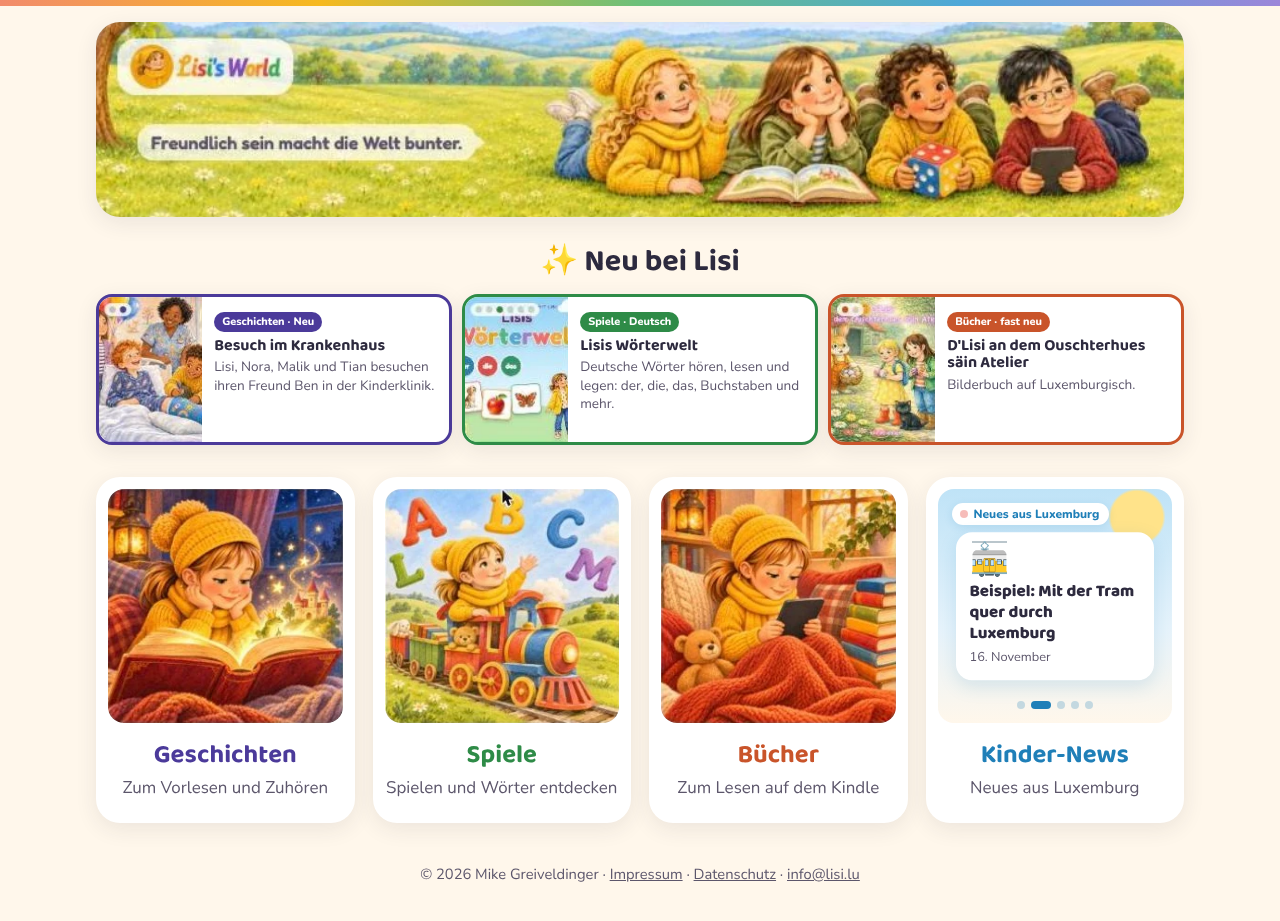
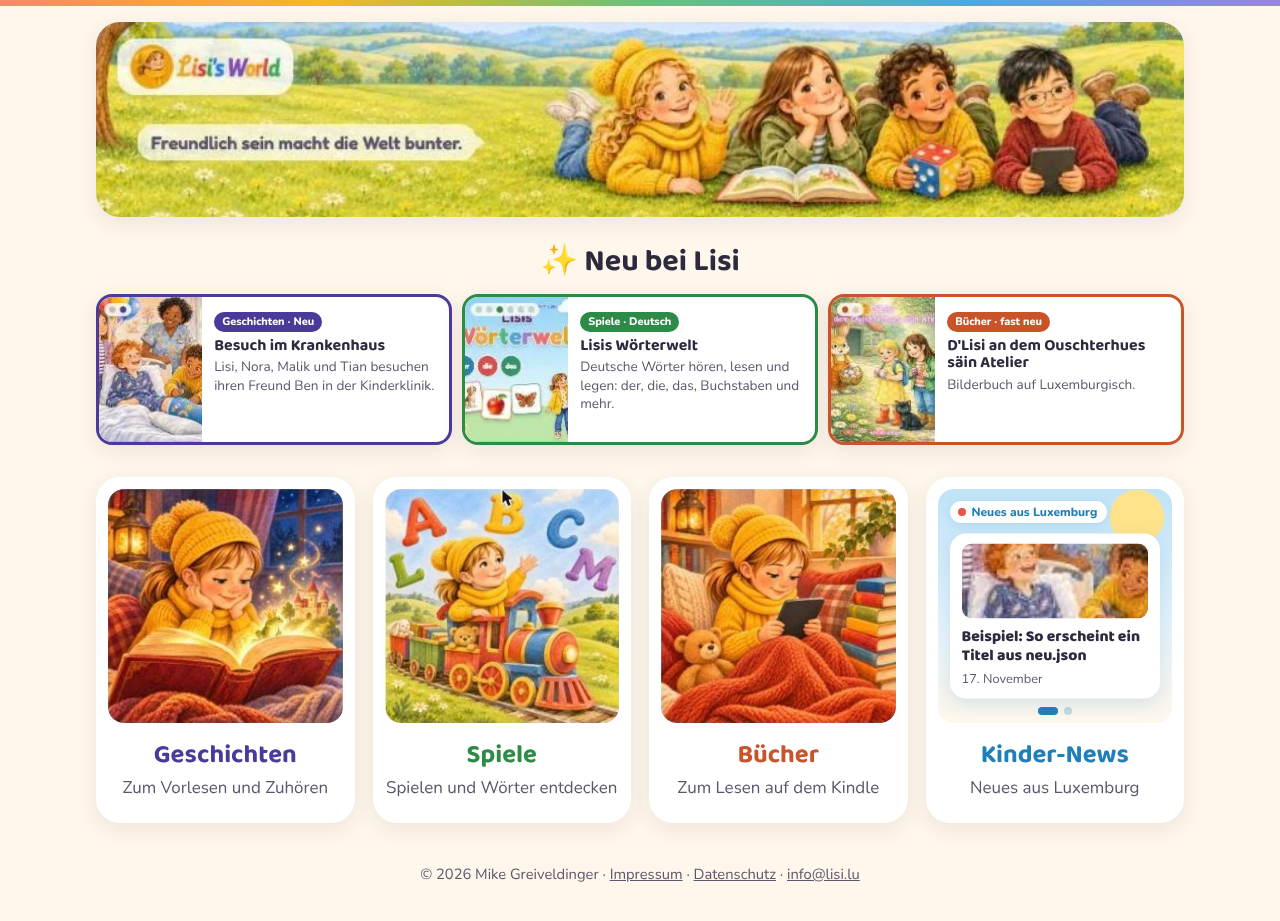
Kinder-News-Kachel liest stories.lisi.lu/neu.json
Zeigt die Einträge mit kategorie Kinder-News (Titel, Datum, Bild),
neueste zuerst, höchstens fünf. Die Kachel führt zu
stories.lisi.lu/nachrichten. Platzhalter-Meldungen entfernt; lädt
die Datei nicht, bleibt ein fester Hinweis stehen.

Claude-Session: https://claude.ai/code/session_01D9GWKEonHt6CfoCf5M1Z3G

Changed region(s): [[0.7188, 0.5472, 0.9062, 0.7904]]

diff --git a/startseite/entwurf/index.html b/startseite/entwurf/index.html
@@ -31,16 +31,20 @@
     <a class="kachel f-buecher" href="https://lisi.lu/buecher/"><img src="bilder/buecher.webp" alt="" width="253" height="253"><h2>Bücher</h2><p>Zum Lesen auf dem Kindle</p></a>
 
     <!-- ===== KINDER-NEWS (neu) =====
-         Die Meldungen kommen aus dem JSON-Block unten (oder aus data-quelle, einer JSON-Datei mit derselben Form).
-         Es werden die 5 neuesten gezeigt, alle 4 Sekunden die nächste; bei „Bewegung reduzieren“ steht nur die neueste. -->
-    <a class="kachel f-news" href="#kinder-news" id="news-kachel" data-quelle="">
+         Holt https://stories.lisi.lu/neu.json, nimmt die Einträge mit "kategorie": "Kinder-News"
+         (neueste zuerst, höchstens 5) und zeigt sie abwechselnd alle 4 Sekunden.
+         Bei „Bewegung reduzieren“ steht nur die neueste. Klappt das Laden nicht, bleibt ein fester Hinweis stehen.
+         Wichtig: stories.lisi.lu muss für lisi.lu den CORS-Header Access-Control-Allow-Origin senden. -->
+    <a class="kachel f-news" href="https://stories.lisi.lu/nachrichten" id="news-kachel" data-quelle="https://stories.lisi.lu/neu.json">
       <div class="newsfenster" aria-hidden="true">
         <span class="live">Neues aus Luxemburg</span>
-        <ul class="meldungen"></ul>
+        <ul class="meldungen">
+          <li class="meldung aktiv ersatz"><span class="emoji">📰</span><strong>Die neuesten Kinder-News aus Luxemburg</strong><small>Hier tippen zum Lesen</small></li>
+        </ul>
         <div class="punkte"></div>
       </div>
       <h2>Kinder-News</h2>
-      <p id="news-zeile">Was gibt's Neues auf der Welt?</p>
+      <p>Neues aus Luxemburg</p>
     </a>
   </nav>
 </div>
@@ -49,37 +53,38 @@
   © 2026 Mike Greiveldinger · <a href="https://lisi.lu/impressum/">Impressum</a> · <a href="https://lisi.lu/datenschutz/">Datenschutz</a> · <a href="mailto:info@lisi.lu">info@lisi.lu</a>
 </footer>
 
-<!-- Beispiel-Meldungen (Platzhalter), bis die Quelle von „Neues aus Luxemburg“ feststeht -->
-<script type="application/json" id="news-daten">
-[
-  {"datum":"2026-11-17","emoji":"🎄","titel":"Beispiel: Der erste Weihnachtsmarkt in der Stadt öffnet"},
-  {"datum":"2026-11-16","emoji":"🚋","titel":"Beispiel: Mit der Tram quer durch Luxemburg"},
-  {"datum":"2026-11-15","emoji":"🏰","titel":"Beispiel: Kinder entdecken die Burg von Vianden"},
-  {"datum":"2026-11-14","emoji":"❄","titel":"Beispiel: Im Ösling ist der erste Schnee gefallen"},
-  {"datum":"2026-11-13","emoji":"📚","titel":"Beispiel: Lesetag in den Grundschulen"}
-]
-</script>
 <script>
 (function(){
   var kachel=document.getElementById('news-kachel');
+  var quelle=kachel.getAttribute('data-quelle');
   var liste=kachel.querySelector('.meldungen'), punkte=kachel.querySelector('.punkte');
   var ruhig=window.matchMedia('(prefers-reduced-motion: reduce)').matches;
-  function datum(d){try{return new Date(d+'T12:00:00').toLocaleDateString('de-DE',{day:'numeric',month:'long'})}catch(e){return d}}
-  function zeigen(alle){
-    var news=alle.slice().sort(function(a,b){return a.datum<b.datum?1:-1}).slice(0,5);
+  function feld(o,namen){for(var i=0;i<namen.length;i++){if(o[namen[i]])return o[namen[i]]}return ''}
+  function eintraege(d){ // Liste direkt oder in einem Feld (z. B. "eintraege", "items")
+    if(Array.isArray(d)) return d;
+    for(var k in d){if(Array.isArray(d[k])) return d[k]}
+    return [];
+  }
+  function datumText(d){var t=new Date(d);return isNaN(t)?d:t.toLocaleDateString('de-DE',{day:'numeric',month:'long'})}
+  function zeigen(daten){
+    var news=eintraege(daten).filter(function(n){return String(n.kategorie||'').toLowerCase()==='kinder-news'})
+      .map(function(n){return{titel:feld(n,['titel','title']),datum:feld(n,['datum','date']),bild:feld(n,['bild','image','img']),link:feld(n,['link','url'])}})
+      .filter(function(n){return n.titel})
+      .sort(function(a,b){return String(b.datum).localeCompare(String(a.datum))}).slice(0,5);
     if(!news.length) return;
+    liste.innerHTML='';
     news.forEach(function(n){
       var li=document.createElement('li'); li.className='meldung';
-      var e=document.createElement('span'); e.className='emoji'; e.textContent=n.emoji||'📰';
+      if(n.bild){var im=document.createElement('img');im.src=new URL(n.bild,quelle).href;im.alt='';im.loading='lazy';li.appendChild(im)}
       var t=document.createElement('strong'); t.textContent=n.titel;
-      var s=document.createElement('small'); s.textContent=datum(n.datum);
-      li.append(e,t,s); liste.appendChild(li);
+      var s=document.createElement('small'); s.textContent=n.datum?datumText(n.datum):'';
+      li.append(t,s); liste.appendChild(li);
       punkte.appendChild(document.createElement('span'));
     });
-    document.getElementById('news-zeile').textContent='Neues aus Luxemburg';
     var m=liste.children, p=punkte.children, i=0, pause=false;
     m[0].classList.add('aktiv'); p[0].classList.add('aktiv');
-    if(ruhig||m.length<2) return;
+    kachel.setAttribute('aria-label','Kinder-News. Neu: '+news[0].titel);
+    if(ruhig||m.length<2){punkte.innerHTML='';return}
     kachel.addEventListener('mouseenter',function(){pause=true});
     kachel.addEventListener('mouseleave',function(){pause=false});
     setInterval(function(){
@@ -90,10 +95,7 @@
       i=(i+1)%m.length; m[i].classList.add('aktiv'); p[i].classList.add('aktiv');
     },4000);
   }
-  var lokal=JSON.parse(document.getElementById('news-daten').textContent);
-  var quelle=kachel.getAttribute('data-quelle');
-  if(quelle){fetch(quelle).then(function(r){return r.json()}).then(zeigen).catch(function(){zeigen(lokal)})}
-  else zeigen(lokal);
+  if(quelle) fetch(quelle,{cache:'no-cache'}).then(function(r){if(!r.ok)throw r;return r.json()}).then(zeigen).catch(function(){});
 })();
 </script>
 </body>

diff --git a/startseite/entwurf/stil.css b/startseite/entwurf/stil.css
@@ -43,18 +43,19 @@ a{color:inherit}
 .newsfenster{position:relative;overflow:hidden;background:
   radial-gradient(circle at 85% 12%,#FFE38A 0 9%,transparent 10%),
   linear-gradient(#BFE3F7,#E6F3FB 60%,#FFF7EB);
-  display:flex;flex-direction:column;justify-content:center;text-align:left;padding:18px}
-.newsfenster .live{position:absolute;top:14px;left:14px;display:flex;align-items:center;gap:6px;background:#fff;border-radius:999px;padding:3px 10px 3px 8px;font:800 .75rem "Nunito",sans-serif;color:var(--news);box-shadow:0 2px 8px rgba(31,127,184,.15)}
+  display:flex;flex-direction:column;text-align:left;padding:12px 12px 22px}
+.newsfenster .live{position:relative;z-index:2;align-self:flex-start;display:flex;align-items:center;gap:6px;background:#fff;border-radius:999px;padding:3px 10px 3px 8px;font:800 .75rem "Nunito",sans-serif;color:var(--news);box-shadow:0 2px 8px rgba(31,127,184,.15)}
 .newsfenster .live::before{content:"";width:8px;height:8px;border-radius:50%;background:#E8493F;animation:puls 1.6s ease-in-out infinite}
-.meldungen{position:relative;min-height:9.5em;list-style:none;margin:0;padding:0}
-.meldung{position:absolute;left:0;right:0;top:50%;background:#fff;border-radius:16px;padding:12px 14px;box-shadow:0 6px 18px rgba(31,127,184,.15);
+.meldungen{position:relative;flex:1;min-height:9.5em;list-style:none;margin:8px 0 0;padding:0}
+.meldung{position:absolute;left:0;right:0;top:50%;background:#fff;border-radius:16px;padding:10px 12px;box-shadow:0 6px 18px rgba(31,127,184,.15);
   opacity:0;transform:translateY(-30%) scale(.96);transition:opacity .6s ease,transform .6s ease;pointer-events:none}
 .meldung.aktiv{opacity:1;transform:translateY(-50%) scale(1);pointer-events:auto}
 .meldung.weg{opacity:0;transform:translateY(-75%) scale(.96)}
+.meldung img{width:100%;aspect-ratio:2/1;object-fit:cover;border-radius:10px;margin-bottom:8px}
 .meldung .emoji{font-size:2rem;line-height:1}
-.meldung strong{display:block;font:800 1.05rem/1.25 "Baloo 2","Nunito",sans-serif;color:var(--tinte);margin-top:4px}
+.meldung strong{display:-webkit-box;-webkit-line-clamp:2;-webkit-box-orient:vertical;overflow:hidden;font:800 1.05rem/1.25 "Baloo 2","Nunito",sans-serif;color:var(--tinte);margin-top:4px}
 .meldung small{display:block;color:var(--text);font-size:.8rem;margin-top:4px}
-.punkte{position:absolute;bottom:14px;left:0;right:0;display:flex;justify-content:center;gap:6px}
+.punkte{position:absolute;bottom:8px;left:0;right:0;display:flex;justify-content:center;gap:6px}
 .punkte span{width:8px;height:8px;border-radius:50%;background:rgba(31,127,184,.25);transition:background .3s,width .3s}
 .punkte span.aktiv{background:var(--news);width:20px;border-radius:999px}
 @keyframes puls{50%{opacity:.35}}
@@ -72,6 +73,8 @@ a{color:inherit}
 }
 @media (min-width:1000px){
   .kacheln{grid-template-columns:repeat(4,1fr)}
+  .meldung img{aspect-ratio:5/2}
+  .meldung strong{font-size:.98rem}
 }
 @media (prefers-reduced-motion:reduce){
   *{transition:none!important;animation:none!important}
